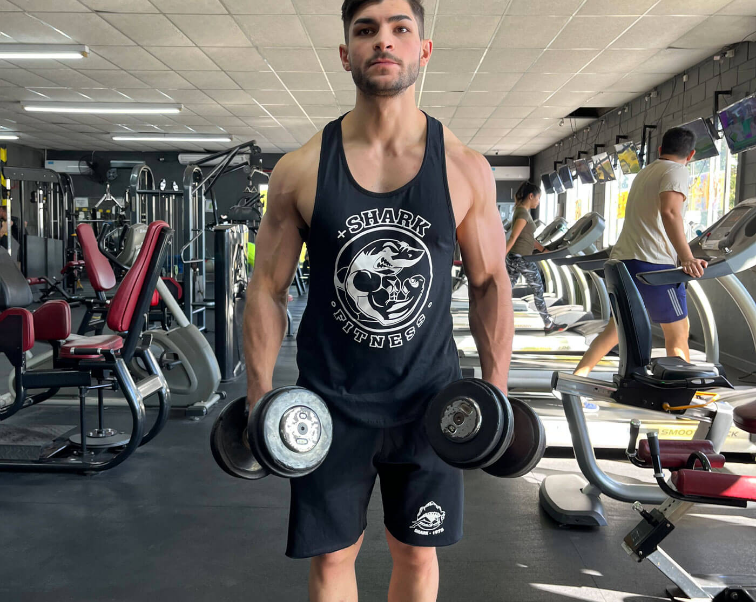
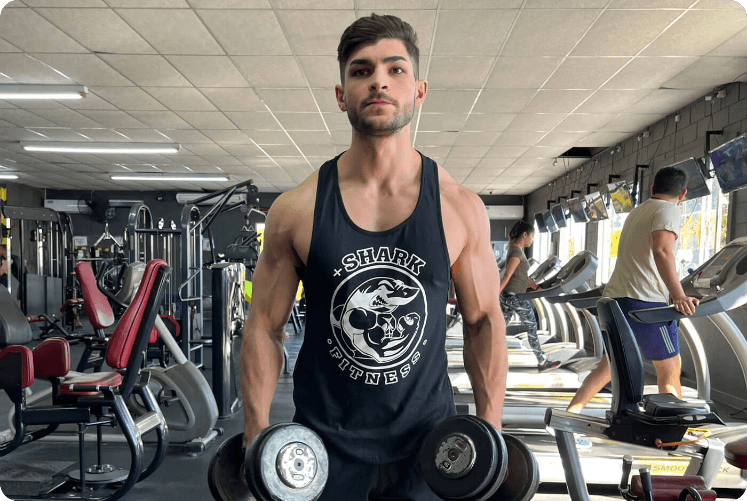
Images fixed

diff --git a/index.html b/index.html
@@ -20,7 +20,7 @@
 <body>
     
     <!-- header start -->
-    <header id="header">
+    <header id="header" class="fixed-top">
         <nav class="navbar navbar-expand-lg navbar-dark">
             <div class="container">
               <a class="navbar-brand" href="#">
@@ -32,22 +32,22 @@
               <div class="collapse navbar-collapse" id="navbarNav">
                 <ul class="navbar-nav ms-auto">
                   <li class="nav-item">
-                    <a class="nav-link active" aria-current="page" href="#">HOME</a>
+                    <a class="nav-link active" aria-current="page" href="#hero">HOME</a>
                   </li>
                   <li class="nav-item">
-                    <a class="nav-link" href="#">PLANES</a>
+                    <a class="nav-link" href="#planr">PLANES</a>
                   </li>
                   <li class="nav-item">
-                    <a class="nav-link" href="#">TRAINERS</a>
+                    <a class="nav-link" href="#trainingr">TRAINERS</a>
                   </li>
                   <li class="nav-item">
-                    <a class="nav-link" href="#">TIENDA</a>
+                    <a class="nav-link" href="#exerciser">TIENDA</a>
                   </li>
                   <li class="nav-item">
-                    <a class="nav-link" href="#">NOSOTROS</a>
+                    <a class="nav-link" href="#wer">NOSOTROS</a>
                   </li>
                   <li class="nav-item">
-                    <a class="nav-link" href="#">CONTACTO</a>
+                    <a class="nav-link" href="#contactr">CONTACTO</a>
                   </li>
                 </ul>
               </div>
@@ -69,6 +69,7 @@
                         <div class="hero-links">
                             <a href="#" class="btn btn-cs">Comenzar</a>
                             <a href="#" class="btn btn-cs-secondary">Testimonios</a>
+                            <div id="planr"></div>
                         </div>
                     </div>
                 </div>
@@ -148,6 +149,7 @@
                                         <li>Constante comunicacion vía Mail o WhatsApp</li>
                                     </ul>
                                     <p class="text-center"><a href="#" class="btn btn-cs">Adquirir ahora</a></p>
+                                    <div id="trainingr"></div>
                                 </div>
                             </div>
                         </div>
@@ -190,7 +192,7 @@
                             <div class="col-lg-4">
                                 <div class="training-single">
                                     <div class="training-img">
-                                        <img src="images/los-3-basicos-2.png" class="img-fluid" alt="">
+                                        <img src="images/los-3-basicos.png" class="img-fluid" alt="">
                                     </div>
                                     <div class="training-desc">
                                         <h4>los 3 básicos</h4>
@@ -250,6 +252,7 @@
                                         <h4>entrenamiento principantes</h4>
                                         <p>Información simple y de calidad, para que puedas sacarle el mejor partido a tus entrenamientos y saber a ciencia cierta si estás haciendo
                                             las cosas bien para llegar a tu meta.</p>
+                                            <div id="exerciser"></div>
                                     </div>
                                 </div>
                             </div>
@@ -284,7 +287,7 @@
                                 <div class="row gx-0 exercise-pt">
                                     <div class="col-md-6">
                                         <div class="exercise-1">
-                                            <img src="images/los-3-basicos.png" class="img-fluid" alt="">
+                                            <img src="images/los-1.png" class="img-fluid" alt="">
                                             <div class="exercise-desc">
                                                 <h4>Juan Pablo Di Paola</h4>
                                                 <h5>Trainer</h5>
@@ -356,6 +359,7 @@
                                         </div>
                                         <div class="col-md-6 text-md-end text-center mt-md-0 mt-4">
                                             <a href="#" class="btn btn-cs">Ver productos</a>
+                                            <div id="wer"></div>
                                         </div>
                                     </div>
                                 </div>
@@ -391,6 +395,7 @@
                             </div>
                         </div>
                         <p class="text-center"><a href="#" class="btn btn-cs">Conoce toda nuestra historia </a></p>
+                        <div id="contactr"></div>
                     </div>
                 </div>
             </div>

diff --git a/css/style.css b/css/style.css
@@ -73,7 +73,7 @@ ul li {
 
 /* header start */
 #header {
-
+    background: #1D1D1D;
 }
 .navbar-brand img {
     max-width: 200px;
@@ -91,7 +91,7 @@ ul li {
 /* header end */
 /* hero start */
 #hero {
-    padding: 100px 0 70px;
+    padding: 180px 0 70px;
 }
 .hero-top {
     margin-bottom: 20px;
@@ -201,7 +201,7 @@ ul li {
     content: "";
     background: rgba(69, 72, 71, .10);
     width: 70.78%;
-    height: 712px;
+    height: 722px;
     position: absolute;
     right: 0;
     top: 0;
@@ -226,20 +226,18 @@ ul li {
 }
 .exercise-1 img,
 .exercise-2 img {
-    width: 100%;
-    height: 300px;
+    height: 380px;
     object-fit: cover;
 }
 .exercise-2 {
-    margin-top: 300px;
+    margin-top: 380px;
 }
 .exercise-3 img {
-    height: 400px;
-    width: 100%;
+    height: 490px;
     object-fit: cover;
 }
 .exercise-pt {
-    padding-top: 100px;
+    padding-top: 110px;
 }
 .exercise-desc {
     padding: 10px;
